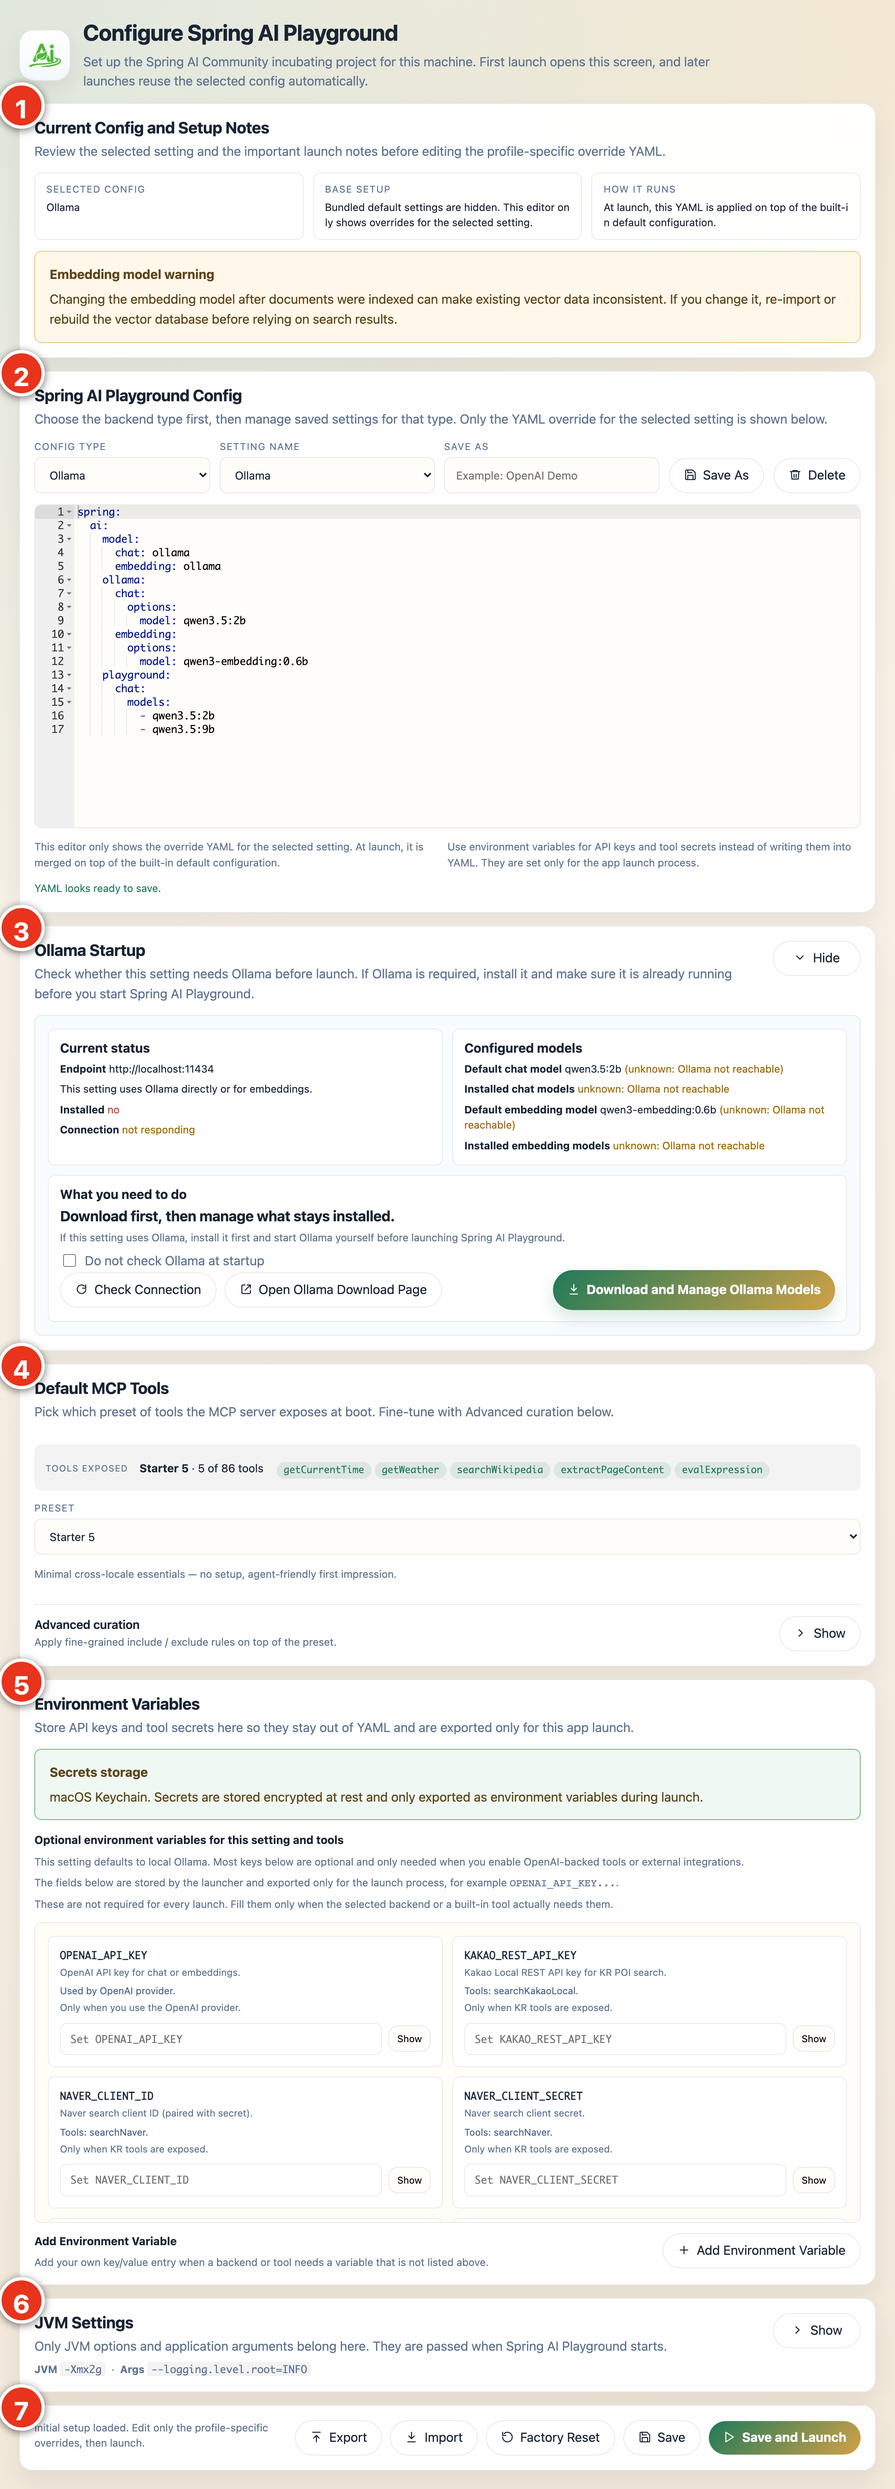
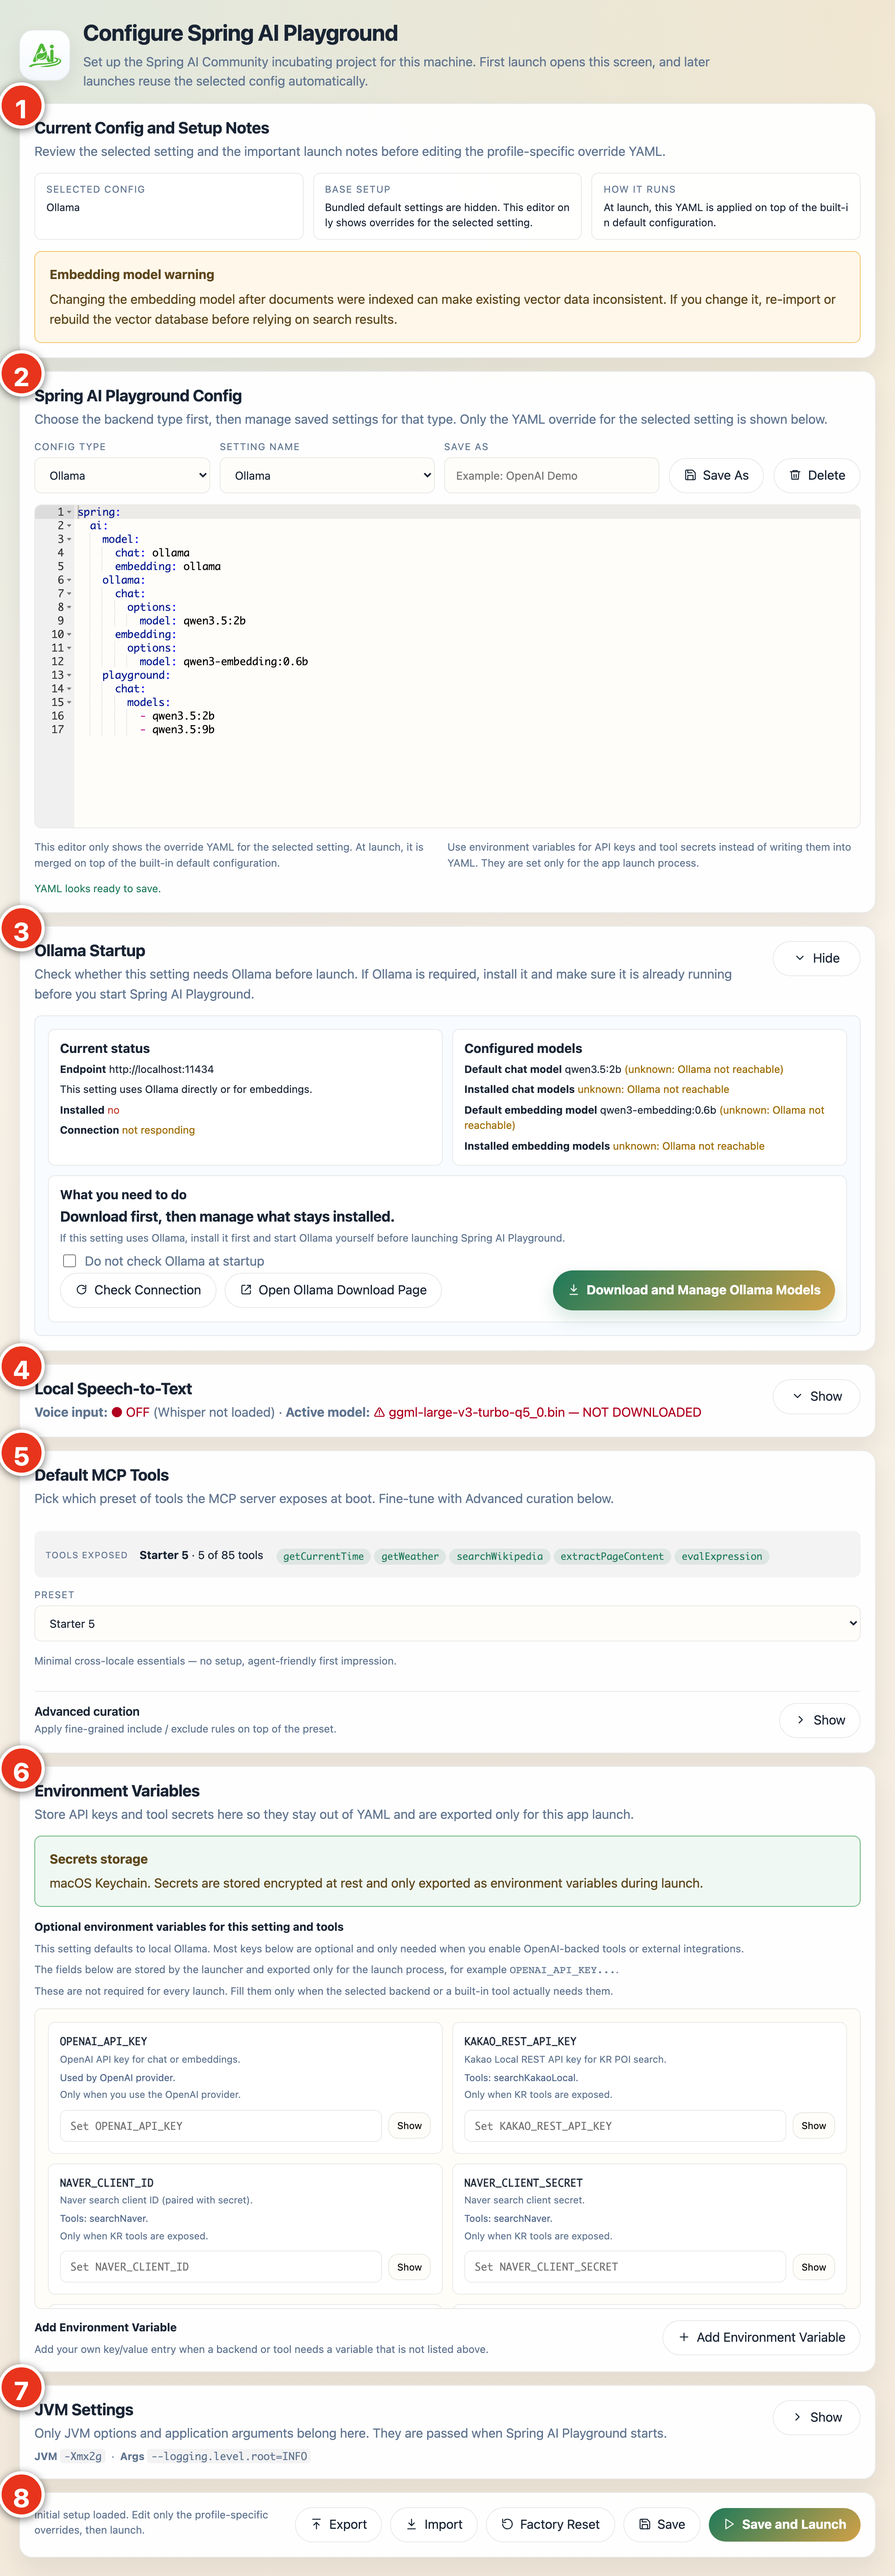
docs: document on-device voice input

Changed region(s): [[0.0, 0.0, 1.0, 0.9968], [0.7188, 0.9656, 0.75, 0.9968]]

diff --git a/docs/getting-started/desktop.md b/docs/getting-started/desktop.md
@@ -79,6 +79,7 @@ The desktop launcher includes a built-in configuration editor. In practical term
 - JVM options and application arguments for launch-time tuning
 - import, export, save-as, delete, factory reset, and save-and-launch workflows
 - automatic [MLX model selection](#apple-silicon-and-mlx-models) on Apple Silicon for faster local inference
+- on-device [speech-to-text model download](#local-speech-to-text-whisper) for local voice input in Agentic Chat
 
 ## How the Desktop Config Works
 
@@ -383,6 +384,33 @@ On Apple Silicon Macs, the launcher automatically prefers Apple's **MLX**-optimi
 Because the launcher owns this decision, it passes `--spring.ai.playground.ollama.mlx-auto-select=false` to the JVM so the backend does not resolve the model a second time. On Intel Macs, Windows, and Linux the configured model name is used as-is.
 
 To install the `-mlx` builds, open [Download and Manage Ollama Models](#7-download-and-manage-ollama-models); the `Recommended` tab lists the `-mlx` models for the active profile.
+
+## Local Speech-to-Text (Whisper)
+
+The desktop app can transcribe voice input for [Agentic Chat](../features/agentic-chat/index.md#voice-input) **on-device** - it runs a local **Whisper** model on your machine, set up here in the config editor, so audio never leaves your machine. This is a desktop-only capability; in a browser the chat mic falls back to the cloud-backed Web Speech API instead.
+
+Speech-to-text is **off by default, and the model is not bundled with the app** - you opt in and download a model once from the config editor's **Local Speech-to-Text** card:
+
+![The Local Speech-to-Text card - a Use voice input checkbox, a model dropdown showing large-v3-turbo-q5 (547 MB, recommended) with a Not downloaded badge, the recommended-model description and native-memory note, and Download model, Refresh, and Open folder buttons](../assets/images/launcher/launcher-stt-card.png)
+
+1. Open the **Local Speech-to-Text** card in the config editor.
+2. Tick **Use voice input** to load Whisper on demand.
+3. Pick a model. Larger models are more accurate but use more disk and memory:
+
+    | Model | Download | Notes |
+    |---|---|---|
+    | `tiny` | ~74 MB | English only in practice, short utterances |
+    | `base` / `small` | ~141 / ~465 MB | multilingual, basic to fair |
+    | `medium-q5` | ~514 MB | multilingual, good |
+    | **`large-v3-turbo-q5`** | **~547 MB** | **recommended** - multilingual, best speed/quality balance |
+    | `large-v3` | ~2.9 GB | most accurate, slowest |
+
+4. Click **Download model**. A progress bar shows the transfer with a **Cancel** option; files are saved under `~/.spring-ai-playground/whisper/`.
+5. **Restart the app** to apply - the card shows a restart hint whenever a change needs one.
+
+The card also offers **Refresh** (re-check installed models), **Set active** (switch to an already-downloaded model), and **Open folder** (reveal the Whisper directory). A model uses extra memory only while it is transcribing, so the runtime memory cost scales with the model you choose.
+
+Voice input is supported on **Apple Silicon Macs**. Intel Macs are not supported yet; there the chat mic shows a short notice, and in a browser it uses Web Speech instead. See [Agentic Chat → Voice input](../features/agentic-chat/index.md#voice-input) for how the mic behaves in a conversation.
 
 ## Further Reading
 

diff --git a/docs/index.md b/docs/index.md
@@ -345,7 +345,7 @@ If you install the app, you can run Spring AI Playground immediately without set
 
 <div style="text-align: center;">
   <a href="assets/images/launcher-first-launch.png">
-    <img src="assets/images/launcher-first-launch.png" width="600" alt="Spring AI Playground first-launch configuration screen with numbered markers 1 to 7 from top to bottom - 1 Current Config and Setup Notes, 2 Spring AI Playground Config, 3 Ollama Startup, 4 Default MCP Tools, 5 Environment Variables, 6 JVM Settings, 7 the Save and Launch action bar"/>
+    <img src="assets/images/launcher-first-launch.png" width="600" alt="Spring AI Playground first-launch configuration screen with numbered markers 1 to 8 from top to bottom - 1 Current Config and Setup Notes, 2 Spring AI Playground Config, 3 Ollama Startup, 4 Local Speech-to-Text, 5 Default MCP Tools, 6 Environment Variables, 7 JVM Settings, 8 the Save and Launch action bar"/>
   </a>
 </div>
 
@@ -354,10 +354,11 @@ The markers run top to bottom, and each card has a detailed step in the [Desktop
 1. **Current Config and Setup Notes** - explains the selected setting before you edit it ([details](getting-started/desktop.md#1-read-the-setup-notes-first))
 2. **Spring AI Playground Config** - pick the provider type, choose a saved setting, and edit the override YAML ([details](getting-started/desktop.md#2-choose-a-config-type))
 3. **Ollama Startup** - Ollama endpoint, install / connection status, and the configured models ([details](getting-started/desktop.md#6-understand-the-ollama-startup-card))
-4. **Default MCP Tools** - choose which preset of built-in tools the MCP server exposes at boot ([details](getting-started/desktop.md#8-pick-your-default-mcp-tools))
-5. **Environment Variables** - API keys and tool secrets, encrypted by your OS keychain ([details](getting-started/desktop.md#9-use-environment-variables-for-keys-and-secrets))
-6. **JVM Settings** - optional launch-time JVM options and application args ([details](getting-started/desktop.md#10-set-jvm-and-app-args-only-when-needed))
-7. **Save and Launch action bar** - Export, Import, Factory Reset, Save, and Save and Launch ([details](getting-started/desktop.md#4-save-clone-delete-or-reset-settings))
+4. **Local Speech-to-Text** - opt in to on-device voice input and download a Whisper model ([details](getting-started/desktop.md#local-speech-to-text-whisper))
+5. **Default MCP Tools** - choose which preset of built-in tools the MCP server exposes at boot ([details](getting-started/desktop.md#8-pick-your-default-mcp-tools))
+6. **Environment Variables** - API keys and tool secrets, encrypted by your OS keychain ([details](getting-started/desktop.md#9-use-environment-variables-for-keys-and-secrets))
+7. **JVM Settings** - optional launch-time JVM options and application args ([details](getting-started/desktop.md#10-set-jvm-and-app-args-only-when-needed))
+8. **Save and Launch action bar** - Export, Import, Factory Reset, Save, and Save and Launch ([details](getting-started/desktop.md#4-save-clone-delete-or-reset-settings))
 
 <div style="text-align: center;">
   <b>Ollama Model Manager</b><br/>

diff --git a/docs/features/agentic-chat/index.md b/docs/features/agentic-chat/index.md
@@ -59,6 +59,15 @@ The **tools** icon on the selector row opens the tool popover. It is the per-cha
 
 The document selector beside it enables [Vector Database](../vector-database.md) collections for RAG grounding. Both selections are remembered per conversation.
 
+### Voice input
+
+The microphone icon by the prompt box dictates your message - click to start, click again to stop. Transcribed text streams into the input as you speak and keeps anything you already typed. The backend is picked automatically by where the app runs:
+
+- **Desktop app** - on-device **Whisper**: the native desktop app transcribes your voice locally on the machine, with no cloud round-trip. It is opt-in - turn it on and download a model once in the launcher's settings ([Local Speech-to-Text card](../../getting-started/desktop.md#local-speech-to-text-whisper)). Supported on Apple Silicon Macs; Intel Macs show a short notice instead.
+- **Chrome browser** - the browser's built-in Web Speech API: nothing to download, but recognition is handled by the browser. Safari and Firefox prompt you to switch to Chrome or the desktop app.
+
+While recording, the mic doubles as a stop button with a countdown wedge that fills as silence builds up - it auto-stops after a few seconds of quiet, or click to stop immediately. It is the input-side complement to [Read aloud](#message-actions).
+
 ### System prompts and presets
 
 The system prompt frames every turn. You can type one in the [settings drawer](#the-chat-settings-drawer), or pull a ready-made **[preset](prompt-presets.md)** or a variable-driven **[template](prompt-templates.md)** from the Prompt Library (clipboard icon in the header). The two are related but distinct - a preset is a complete prompt you apply as-is; a template has `{{variables}}` you fill in first - and each has its own page below.
